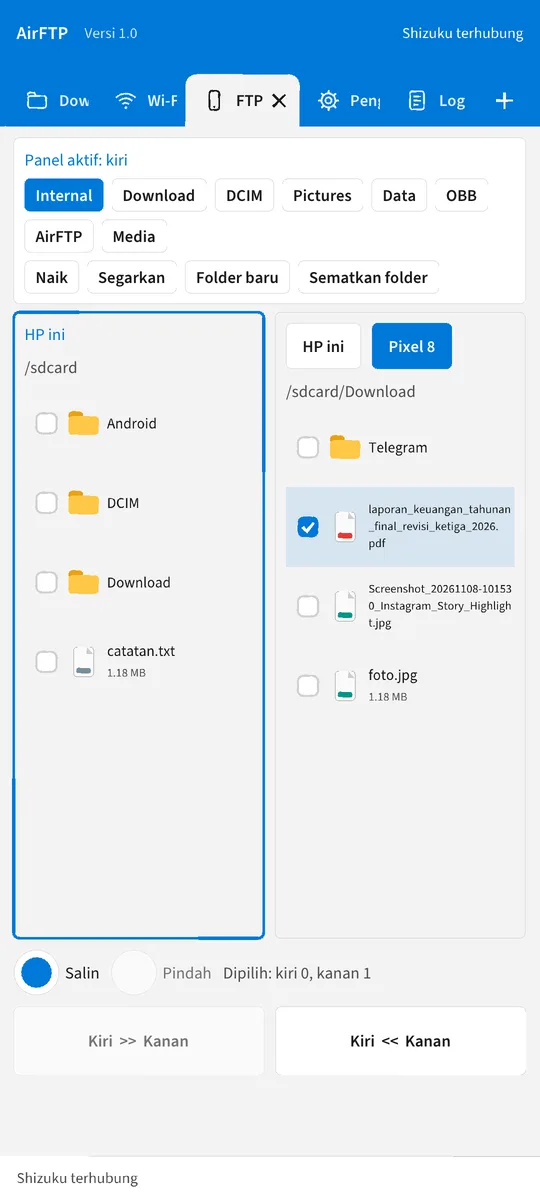
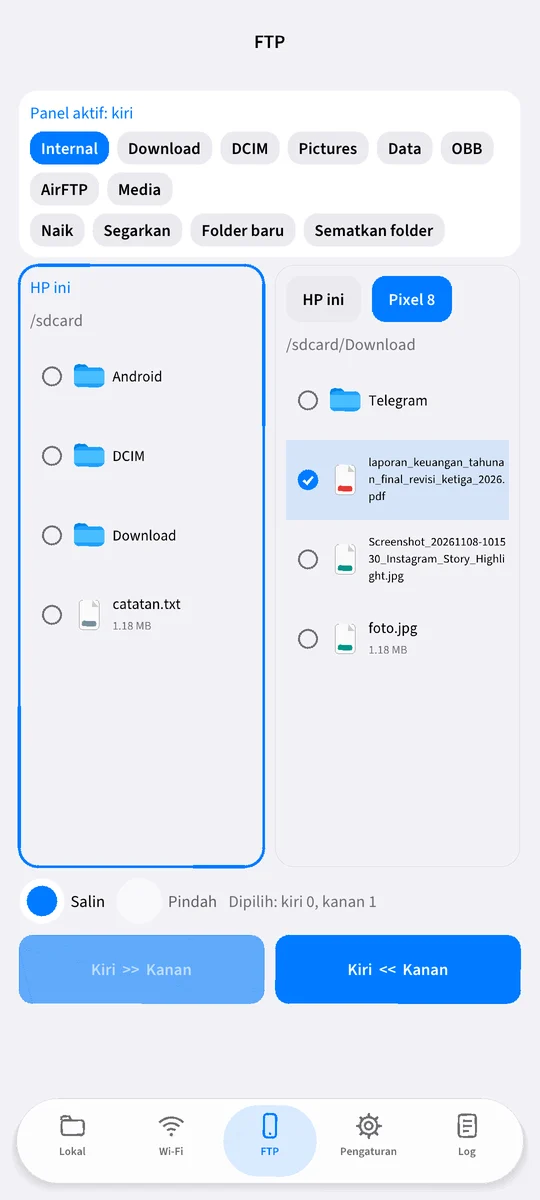
v1.1 tahap 5: ikon baru, catatan rilis, situs docs
Claude-Session: https://claude.ai/code/session_019ZJndj3NzNYWeiDJfLMQmr

diff --git a/app/src/main/cpp/i18n.cpp b/app/src/main/cpp/i18n.cpp
@@ -490,6 +490,15 @@ const Pair kEn[] = {
     {"Tab baru", "New tab"},
     {"Tutup tab ini", "Close this tab"},
     {"Aktivitas", "Activity"},
+    {"Tampilan bergaya iOS: bar bawah melayang, kartu berkelompok, saklar dan tombol baru", "iOS-style look: floating bottom bar, grouped cards, new switches and buttons"},
+    {"File manager punya mode daftar dan grid, folder biru, dan kolom cari", "File manager has list and grid modes, blue folders, and a search field"},
+    {"Tab file manager jadi chip di bawah header; bilah aksi melayang untuk item terpilih", "File manager tabs are chips under the header; a floating action bar for selected items"},
+    {"Menu tekan-lama lebih bulat, tema gelap dirapikan", "Rounder long-press menu, polished dark theme"},
+    {"Rilis pertama", "First release"},
+    {"Kirim file lewat Wi-Fi dengan PIN atau QR, bisa ke beberapa perangkat sekaligus", "Send files over Wi-Fi with a PIN or QR, to several devices at once"},
+    {"FTP dua panel, file manager multi-tab, pratinjau gambar, arsip ZIP", "Two-pane FTP, multi-tab file manager, image preview, ZIP archives"},
+    {"Pasang APK/XAPK/APKS/APKM, cadangkan aplikasi, akses Android/data lewat Shizuku", "Install APK/XAPK/APKS/APKM, back up apps, reach Android/data through Shizuku"},
+    {"Tema terang dan gelap, Bahasa Indonesia dan Inggris", "Light and dark themes, Indonesian and English"},
 };
 
 struct Table { const char* code; const char* name; const Pair* pairs; size_t n; };

diff --git a/app/src/main/cpp/native-lib.cpp b/app/src/main/cpp/native-lib.cpp
@@ -22,7 +22,7 @@
 #include "i18n.h"
 
 namespace {
-constexpr const char* kVersion = "v1.0";
+constexpr const char* kVersion = "v1.1";
 
 std::string urlEncode(const std::string& in) {
     static const char* hex = "0123456789ABCDEF";
@@ -206,7 +206,13 @@ const std::vector<Rilis> kRilis = {
      {"Kirim file lewat Wi-Fi dengan PIN atau QR, bisa ke beberapa perangkat sekaligus",
       "FTP dua panel, file manager multi-tab, pratinjau gambar, arsip ZIP",
       "Pasang APK/XAPK/APKS/APKM, cadangkan aplikasi, akses Android/data lewat Shizuku",
-      "Tema terang dan gelap, Bahasa Indonesia dan Inggris"}}
+      "Tema terang dan gelap, Bahasa Indonesia dan Inggris"}},
+    {"v1.1", "Tampilan baru", "18 Nov 2026",
+     {"Tampilan bergaya iOS: bar bawah melayang, kartu berkelompok, saklar dan tombol baru",
+      "File manager punya mode daftar dan grid, folder biru, dan kolom cari",
+      "Tab file manager jadi chip di bawah header; bilah aksi melayang untuk item terpilih",
+      "Menu tekan-lama lebih bulat, tema gelap dirapikan",
+      "Ikon aplikasi baru"}}
 };
 
 const std::vector<const char*> kBatasan = {

diff --git a/README.md b/README.md
@@ -34,6 +34,7 @@ File manager (tab Lokal)
 - [x] Salin, potong, tempel, hapus (ke tempat sampah), ubah nama, folder baru, properti, cari, urutkan
 - [x] Buka file, bagikan, pasang APK, ekstrak ZIP
 - [x] Akses cepat ke Download, DCIM, Pictures, Data, OBB, dan folder yang kamu sematkan
+- [x] Mode daftar dan grid, tab file manager sebagai chip, bilah aksi untuk item terpilih
 - [x] Buat arsip ZIP dari item terpilih
 - [x] Pratinjau gambar (zoom, geser, gambar berikutnya di folder yang sama)
 - [x] Pasang XAPK/APKS/APKM langsung dari file manager (OBB ikut disalin)
@@ -43,7 +44,7 @@ Backup aplikasi
 - [x] OBB dan DATA game bisa ikut disertakan
 
 Tampilan dan pengaturan
-- [x] Tema Terang dan Gelap, tampilan terinspirasi Windows 10
+- [x] Tema Terang dan Gelap, tampilan bergaya iOS (bar bawah melayang, kartu berkelompok)
 - [x] Bahasa Indonesia dan Inggris, otomatis mengikuti bahasa sistem
 - [x] Riwayat perubahan ringkas dalam satu bagian lipat
 - [x] Cek pembaruan dari GitHub Release dengan catatan rilis, lalu pasang langsung
@@ -82,7 +83,7 @@ Untuk sekarang hanya aksara Latin, karena font bawaan antarmuka belum memuat aks
 - [Source Sans 3](https://github.com/adobe-fonts/source-sans) oleh Adobe, lisensi SIL Open Font License 1.1 (berkas `app/src/main/assets/fonts/LICENSE-SourceSans3.txt`). Font antarmuka, dipakai tanpa diubah.
 - Font monospace sistem Android untuk tab Log.
 - Android NSD (mDNS) untuk menemukan perangkat, GitHub Releases API untuk cek pembaruan.
-- Gaya visual terinspirasi antarmuka Windows 10.
+- Gaya visual terinspirasi iOS: bar bawah melayang, kartu berkelompok.
 - Dibuat dan dirawat oleh [UdyneO2](https://github.com/UdyneO2).
 
 ## Lisensi
@@ -181,7 +182,7 @@ Workflow `.github/workflows/release.yml` membangun APK **bertanda tangan** dan m
    base64 -w0 release.jks
    ```
 2. Tambahkan secrets repo: `KEYSTORE_BASE64`, `KEYSTORE_PASSWORD`, `KEY_ALIAS`, `KEY_PASSWORD`.
-3. Rilis: `git tag v1.0 && git push origin v1.0` (atau jalankan manual dari tab Actions).
+3. Rilis: `git tag v1.1 && git push origin v1.1` (atau jalankan manual dari tab Actions).
 
 `versionName` diambil dari nama tag, `versionCode` dari nomor run. Tag berisi `alpha`, `beta`, atau `rc`
 ditandai pre-release. Catatan rilis diambil dari bagian yang cocok di `CHANGELOG.md`.

diff --git a/CHANGELOG.md b/CHANGELOG.md
@@ -2,6 +2,17 @@
 
 Di dalam aplikasi, riwayat ini ada di Pengaturan > Riwayat perubahan.
 
+## v1.1 (18 Nov 2026)
+
+Tampilan baru.
+
+- Bar bawah melayang dengan lima tab, header di tengah, dan tema bergaya iOS (terang dan gelap).
+- Tab Lokal: bagian Akses cepat dan Isi folder dalam kartu, kolom cari, mode daftar dan grid.
+- Tab file manager menjadi chip di bawah header; bilah aksi melayang untuk Salin, Potong, Tempel, Kirim, Hapus.
+- Menu tekan-lama lebih bulat dengan baris Hapus merah.
+- Wi-Fi, FTP, Pengaturan, dan Log memakai kartu berkelompok, tombol pil, dan saklar baru.
+- Ikon aplikasi baru.
+
 ## v1.0 (16 Nov 2026)
 
 Rilis pertama.
